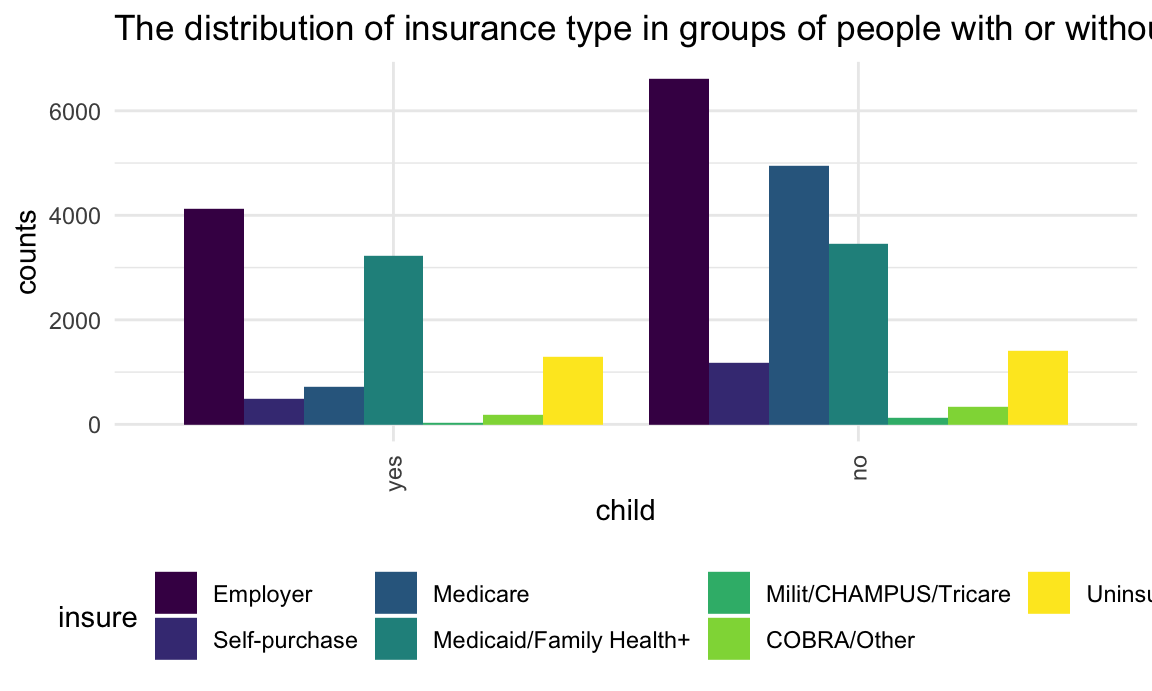
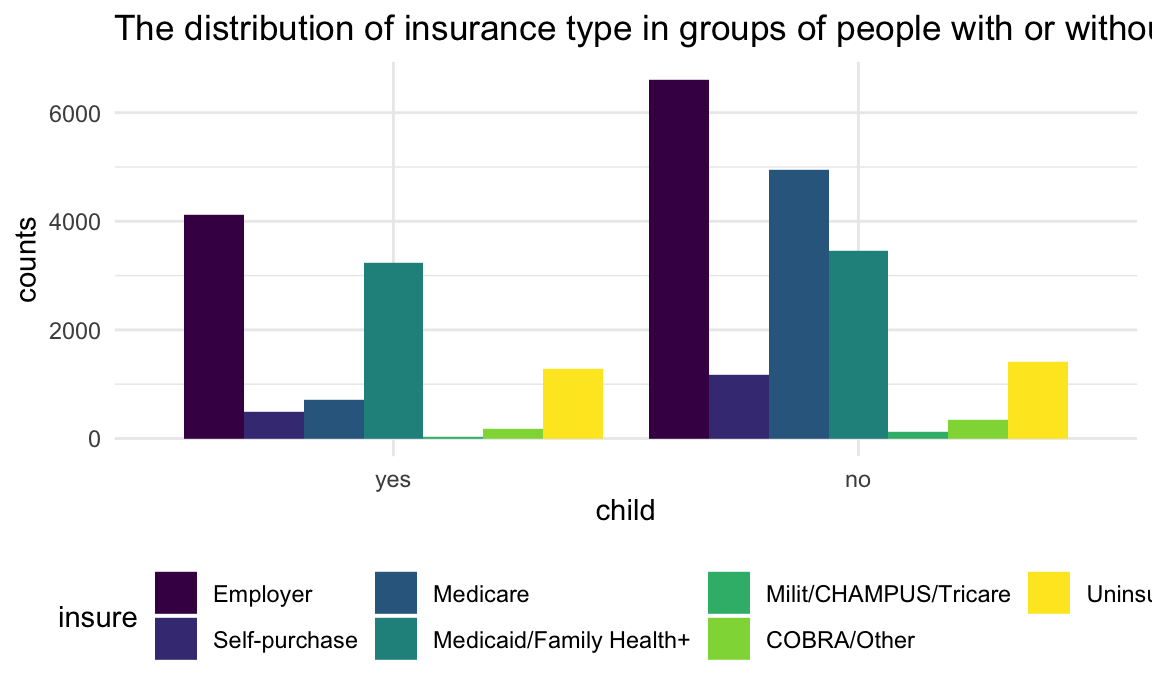
ll

diff --git a/exploration.html b/exploration.html
@@ -338,9 +338,6 @@ $(document).ready(function () {
 analyse_smoke_insurancetype %&gt;% 
   ggplot(aes(x =smoker , y = n, fill = insure)) + 
   geom_bar(stat = &quot;identity&quot;,position = &quot;dodge&quot;) +
-  theme(
-    axis.text.x = element_text(angle = 90, vjust = .5, hjust = 1)
-  ) +
     labs(
       x = &#39;smoking group &#39;,
       y = &#39;counts&#39;,
@@ -575,9 +572,6 @@ ggbarstats(
 analyse_agegroup_insurancetype %&gt;% 
   ggplot(aes(x = agegroup, y = n, fill = insure  )) + 
   geom_bar(stat = &quot;identity&quot;,position = &quot;dodge&quot;) +
-  theme(
-    axis.text.x = element_text(angle = 90, vjust = .5, hjust = 1)
-  ) +
     labs(
       x = &#39;agegroup&#39;,
       y = &#39;counts&#39;,
@@ -848,9 +842,6 @@ dat %$%
 analyse_children_insurancetype %&gt;% 
   ggplot(aes(x = child, y = n, fill = insure )) + 
   geom_bar(stat = &quot;identity&quot;,position = &quot;dodge&quot;) +
-  theme(
-    axis.text.x = element_text(angle = 90, vjust = .5, hjust = 1)
-  ) +
     labs(
       x = &#39;child&#39;,
       y = &#39;counts&#39;,
@@ -1047,9 +1038,9 @@ dat %$%
   
 analyse_bmi_insurancetype %&gt;% 
   ggplot(aes(x = insure, y = bmi,fill = insure)) + 
-  geom_boxplot(alpha = 0.3) +
-    theme(legend.position = &quot;none&quot;) +
-    scale_fill_brewer(palette = &quot;BuPu&quot;) +
+  geom_boxplot(alpha=0.6) +
+    theme(legend.position=&quot;none&quot;) +
+    scale_fill_brewer(palette=&quot;Dark2&quot;)+
   theme(
     axis.text.x = element_text(angle = 90, vjust = .5, hjust = 1)
   ) +
